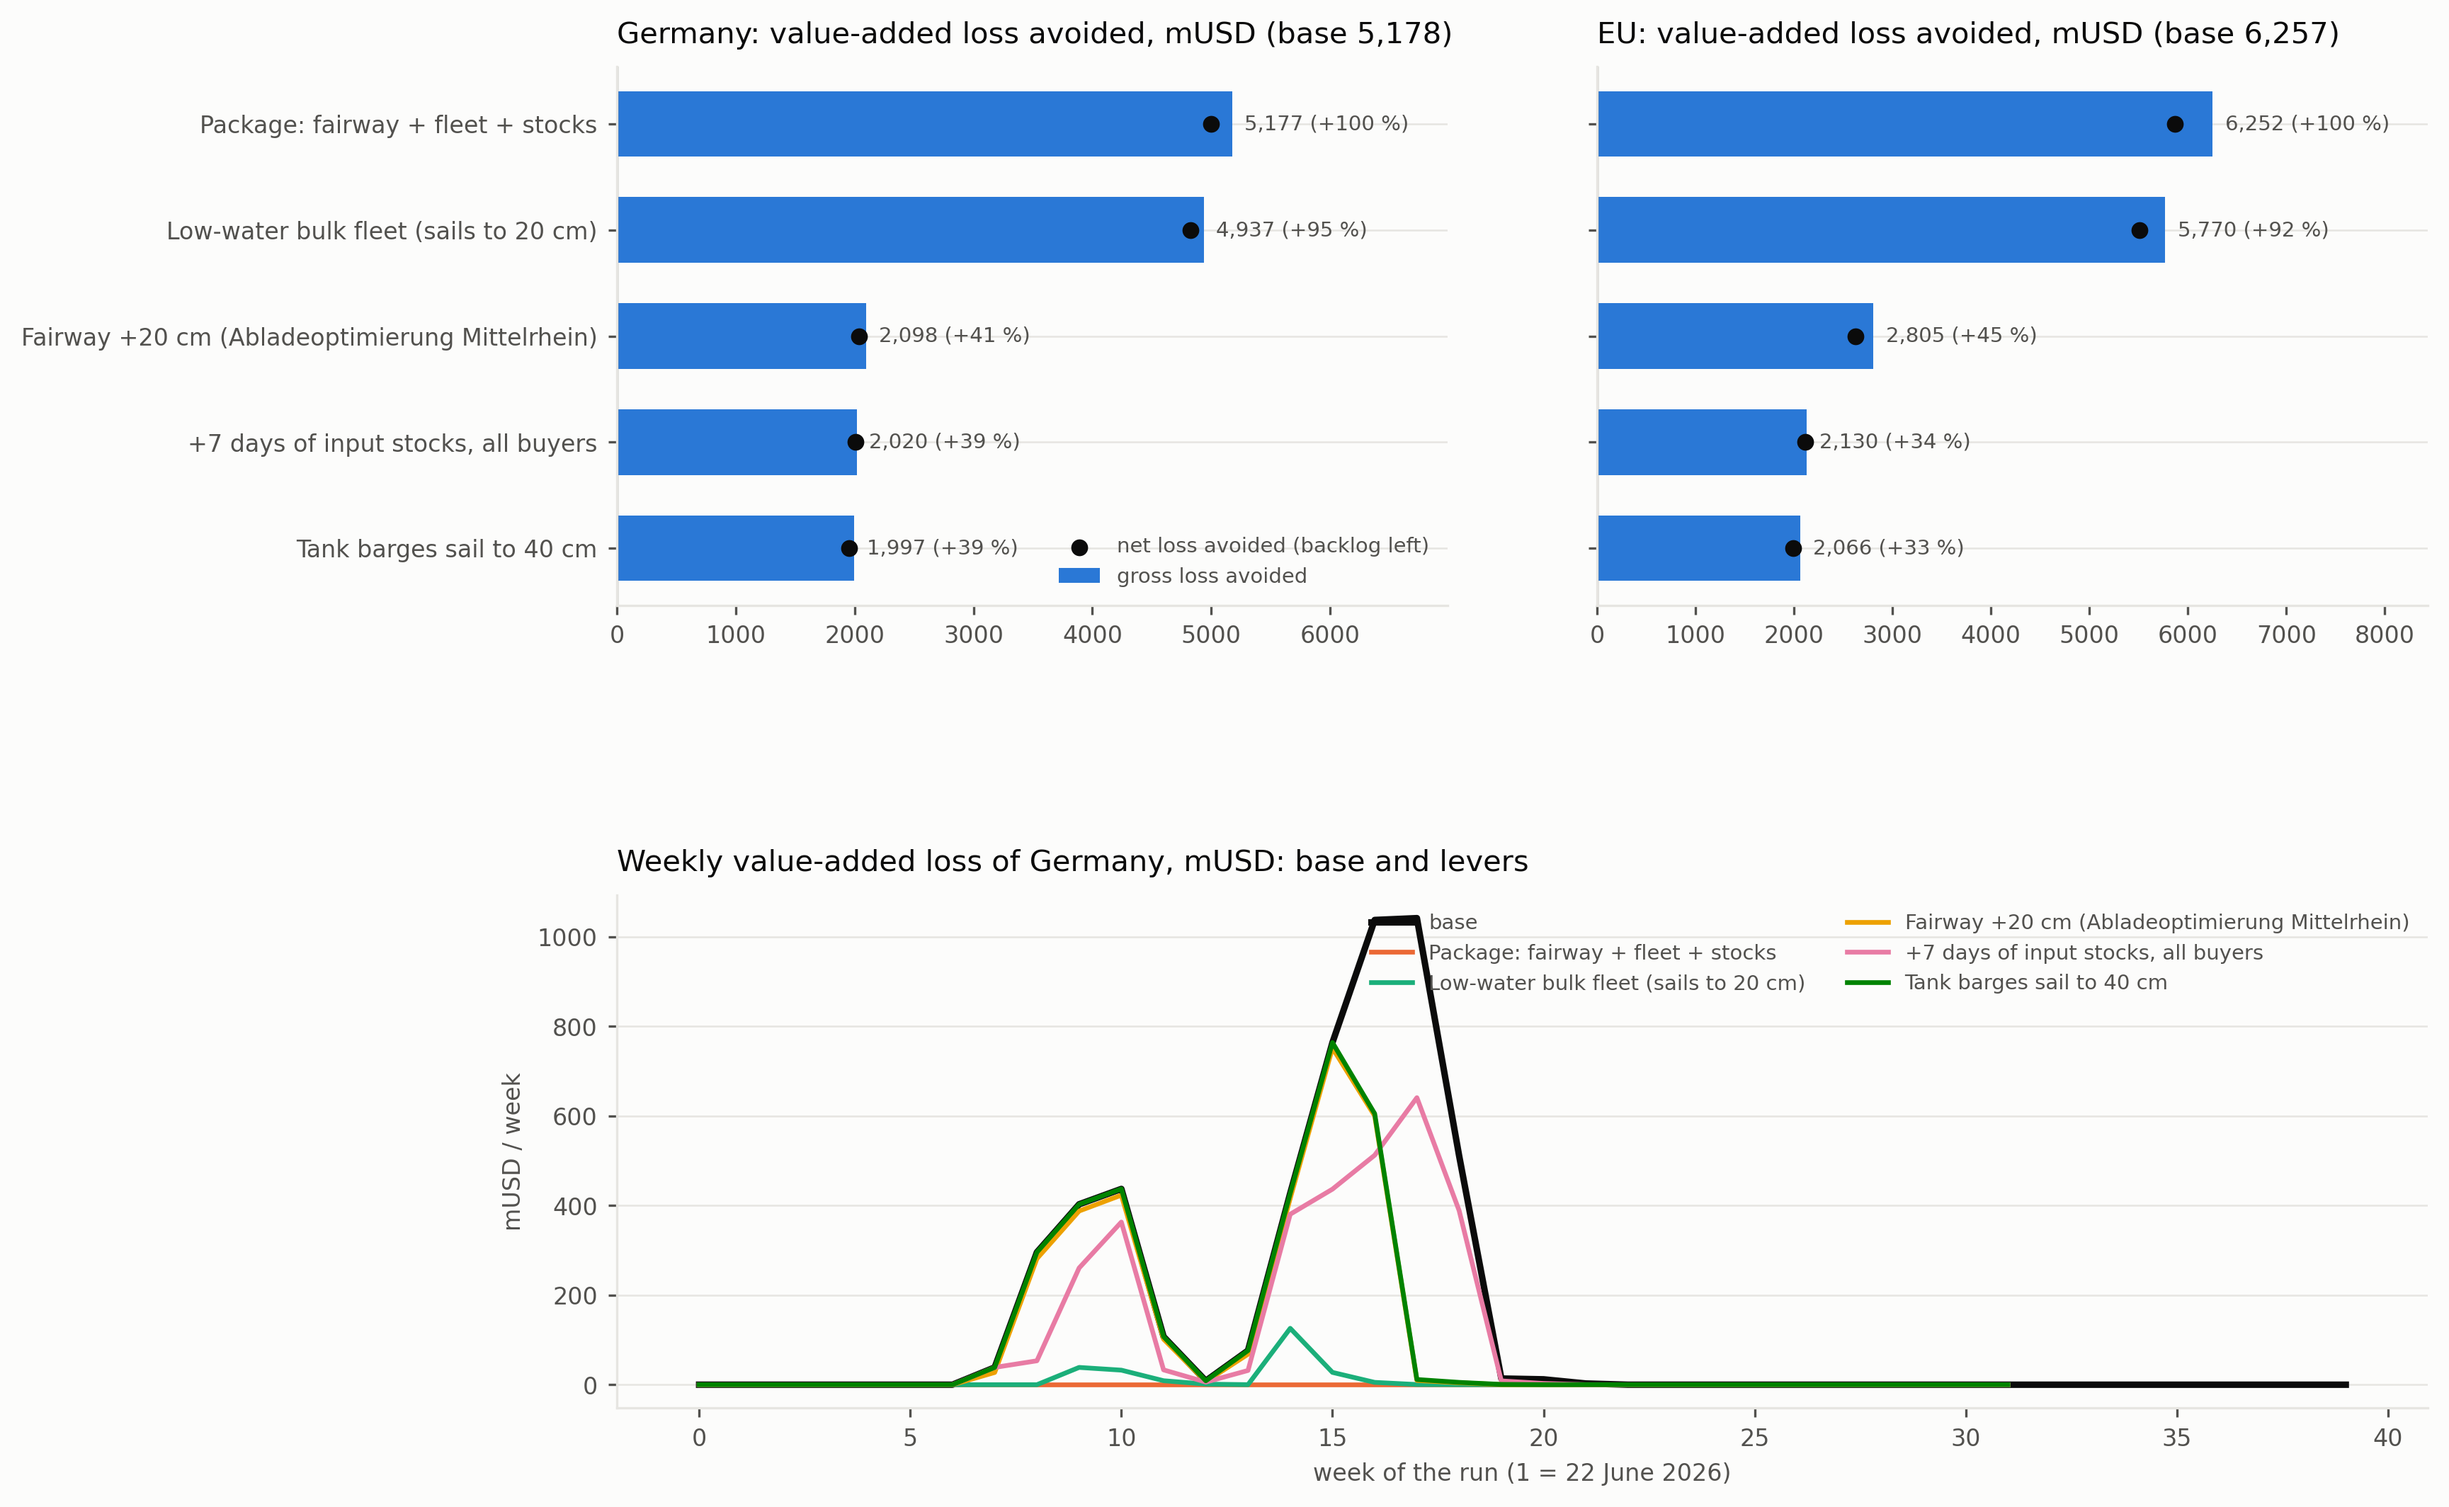
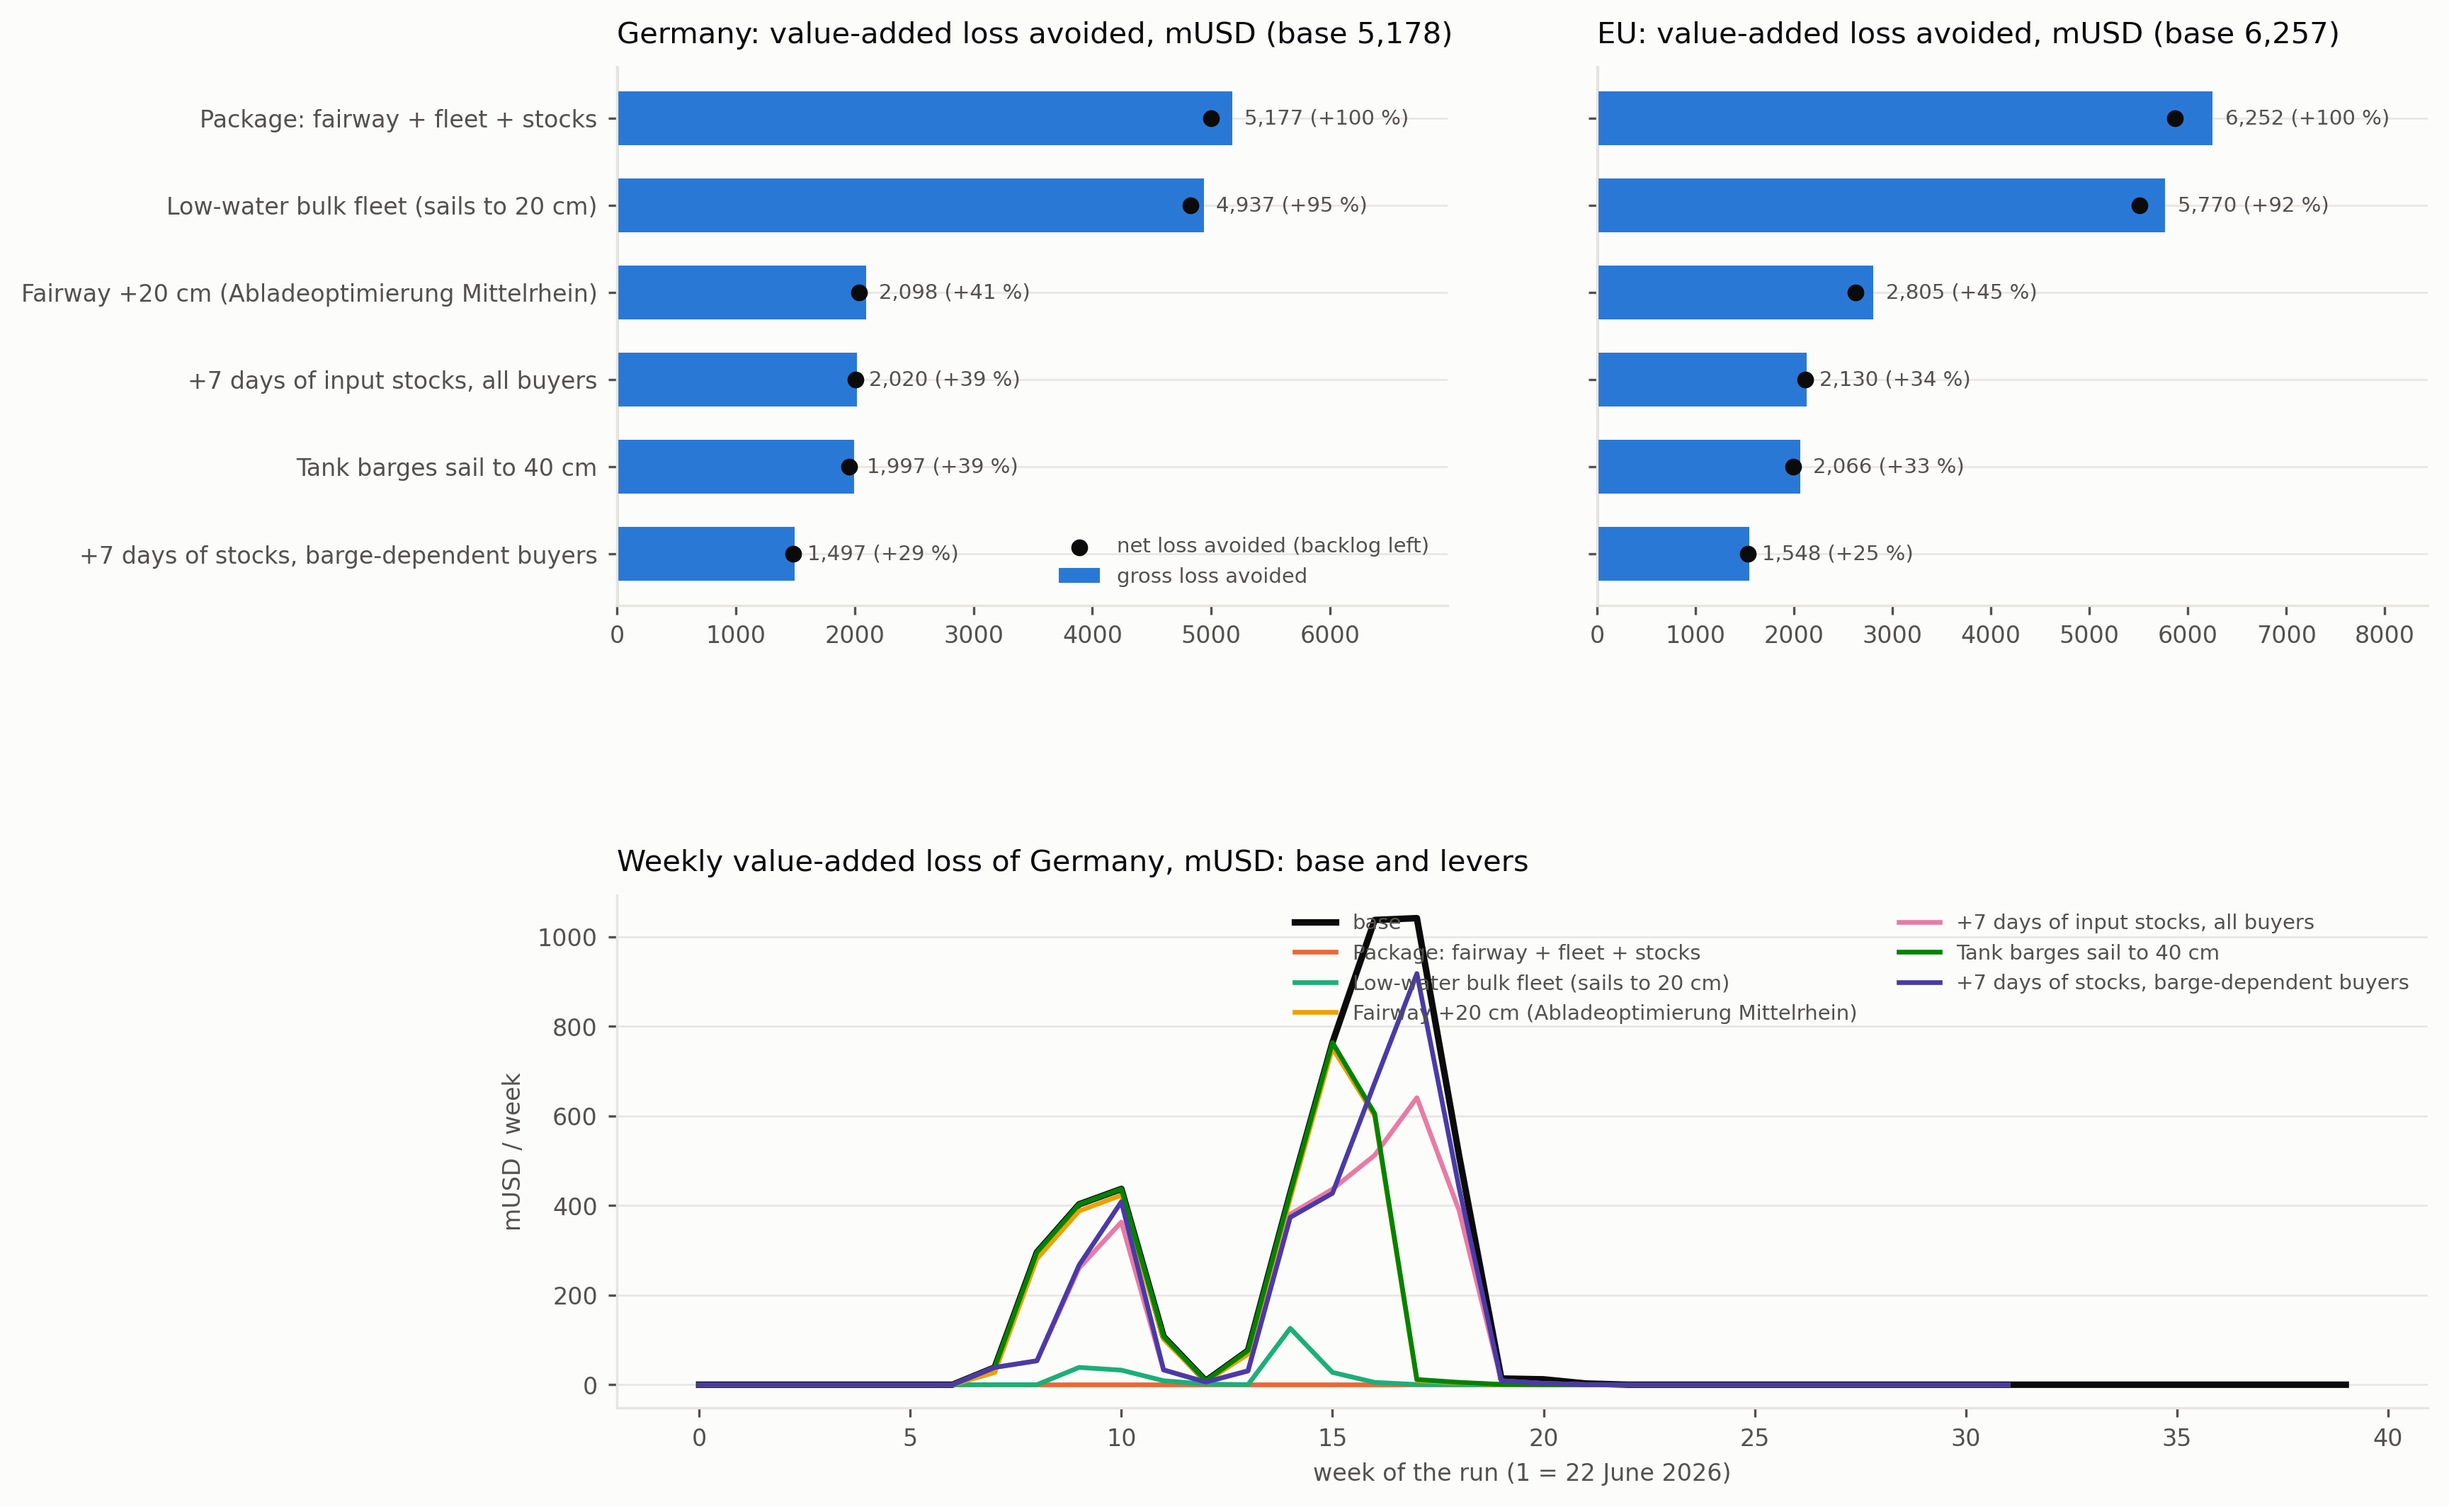
Rhine: targeted-stock lever from the corrected rerun (-29 %, 0.385 % of a quarter) replaces the wrong-scale cluster row; F7/F8 and the lever table redrawn

diff --git a/studies/rhine2026/README.md b/studies/rhine2026/README.md
@@ -393,7 +393,7 @@ hine20266_seed42_base`, then `2018_seed42_base` | **done 05 Sep 03:30**: DEU v
 | **per-cargo line-haul modes: road never a line-haul mode for bulk (15 Sep, user decision on the recommendation; disrupt-sc 8d26c6c)** — laptop pair `lrcheck_base_lhb` (full exports) / `lrcheck_lr0_lhb` (light), `EU/runs/lowerrhine_linehaul_bulk_check.ps1` | `logistics.switching_costs.line_haul_modes: {default: [roads, railways, waterways, maritime], dry_bulk: [railways, waterways, maritime], liquid_bulk: [...]}`: a bulk shipper may not lengthen a road leg by more than the 50 km allowance whatever its length; containers keep the km rule; all-road shippers keep the km rule on their own modes; the same-mode search weights the same access modes | **base done 15 Sep 11:44**: offline classification 2,328 of 2,831 Kaub-crossing bulk pairs give up (928 of 1,243 mUSD of week-6 orders, 75 %; km rule 67 %, old code 81 %), the delivering pairs add no road beyond the allowance; the run reproduces it link by link (week 6: 314 mUSD delivered, 928 not). DEU weeks 7–10 461 / 731 / 1,202 / 1,399 mUSD (km rule 439 / 711 / 1,189 / 1,368; old 606 / 1,054 / 1,671 / 1,924), ten weeks 3,793 = 0.40 % of a quarter (0.39 / 0.55), EU 4,644. **This is the rule of the paper runs**; the 28-run cluster batch is to be relaunched on this commit (`cluster/jobs_20260911.txt`). **Factor-0 twin done 15 Sep 13:22: identical to the bulk-rule base to the decimal in every week and country, blocked bulk value identical in every closure week** |
 | **cluster batch of 15 Sep (the settled rule: penalty-aware search, 50 km allowance, road never line haul for bulk; disrupt-sc 8d26c6c)** — `cluster/jobs_20260911.txt`, 28 runs, archive `rhine_batch_20260915_1904.tgz` | the two baselines with 20 recovery weeks, their no-pooling twins, the ten isolated seed runs, seven levers, seven grid runs, on the cluster's caches of 13 Sep (fingerprints exclude the switching costs) | **Read 15 Sep evening. 2026 (`2026_fc0910_base`): DEU 20,659 mUSD = 2.16 % of a quarter (13 Sep batch 2.74 %), peak 4.15 % of a week in week 18, two waves (461 / 731 / 1,202 / 1,399 / 1,097 in weeks 7–11; 555 / 1,229 / 1,772 / 2,845 / 3,052 / 2,516 / 1,796 in weeks 14–20), tail to week 23; weeks 7–10 equal the laptop pair to the decimal. EU 22.6 bn (28.5), consumption loss 26.4 bn (peak 1.24 %), net DEU 19.1 bn (goods backlog left 6.1, perishable 13.0), delay 386 mUSD; corridor firms below 99 % 3.8 % at the peak; NLD 184, AUT 181, FRA 1,101. Ensemble of eleven draws (seeds 1–10 and 42): DEU 1.85 % of a quarter mean, sd 0.44, range 1.04 (seed 9) – 2.49 (seed 6), peak 2.1–5.0 % of a week always in week 17–18, EU 12.0–24.9 bn, consumption loss 13.3–28.1 bn. 2018 (`2018_baseline`): DEU 12,790 = 1.34 % (1.73), peak 2.81 % of a week in week 22 (10 Dec), losses in weeks 15–27 with the second-round cascade at 1.4–2.1 bn/week in weeks 20–24 (432 / 726 / 731 / 604 / 1,147 / 1,426 / 1,692 / 2,065 / 1,765 / 1,511 / 566 / 125), EU 13.5 bn (17.6), consumption loss 14.9 bn. No pooling: 4.67 % (2026), 2.12 % (2018). Levers vs base (DEU gross avoided): low-water bulk fleet to 20 cm −92 %, +7 days of stocks −65 %, fairway +20 cm −49 %, tank barges to 40 cm −48 %, targeted stocks −28 %, rail at the bulk rate ±0 (−0.2 %; the +13 % of 13 Sep was the penalty-blind artefact), package −100 %. Grid: tanker floor 60 cm = all floors +10 cm 2.70 % (+25 %), all floors −10 cm 1.11 % (= fairway +20 = tank barges 40 within 0.02), stocks ×0.5 5.96 %, ×1.5 0.82 %, Lower Rhine factor 0 = factor 1 = base 2.16 % (the surcharge acts through prices only). READING: 2018 at 1.34 % of a quarter against the ex-post −0.3/−0.4 % and 2026 at 1.85 ± 0.44 % against the ex-ante −0.1 to −0.35 pp: the propagation still overshoots three to four times; the calibration levers that halve it are stocks ×1.5 (0.82 %) and the tanker floor at 40 cm (1.12 %) — decision pending. Figures F4–F8 in `figures/` from these runs; table `additional_data/levers_20260915.csv`; `compare_runs_batch.csv/.txt` in the run folder |
 | **calibration stage 1: the 2018 stock ladder (16 Sep, user decision on the Occam pass)** — `cluster/jobs_20260916_cal2018.txt`, six runs, launcher `--independent` | `--inventory-scale` 1.25 / 1.5 / 1.75 / 2 on the 2018 profile with 20 recovery weeks, ×1.5 with the tanker floor at 40 cm, 2026 at ×2 | **Read 16 Sep: German loss 0.67 / 0.51 / 0.41 / 0.32 % of a quarter (×1: 1.34), peak in week 21 (3 Dec) at every multiplier (1.82 / 1.67 / 1.49 / 1.25 % of a week); ×1.5 + tanker 40 cm 0.22 %. Target 0.3–0.4 % with the peak in late November / early December → PICK ×2 (all inventories, not raw materials only; Bundesbank: raw materials ≈ a third of manufacturing inventories). 2026 cross-check: August wave 0.51 → 0.13 % of a quarter (≈ EUR 1.2 bn, inside IfW's 1–2 bn); 2026 total at ×2 0.54 % (12 recovery weeks), peak 1.42 % of a week in week 17. Stage 2 = `jobs_20260916_paper.txt` at ×2; tables `additional_data/compare_runs_batch_20260916_cal2018.csv/.txt` |
-| **calibration stage 2: the paper runs on the calibrated buffer (×2), 16 Sep** — `cluster/jobs_20260916_paper.txt`, 20 runs, launcher `--independent`; the 2018 calibrated baseline is the ladder run `2018_inv200` | base with 20 recovery weeks, no-pooling twins, ten seeds, five levers, tanker floor 60 | **Read 16 Sep 15:00. 2026 (`2026_cal_base`): DEU 5,178 mUSD = 0.54 % of a quarter, peak 1.42 % of a week in week 17; August wave 0.13 %, September wave 0.41 % (Q3 0.27, Q4 0.27); EU 6.3 bn, consumption loss 5.4 bn, net 5.0 bn, corridor firms below 99 % 2.9 %. Ensemble of eleven draws 0.52 ± 0.14 %, range 0.31–0.76, peak 0.6–1.7 % of a week in weeks 15–17. 2018 (`2018_inv200`): 0.32 %, peak 1.25 % in week 21 (3 Dec), EU 3.5 bn. No pooling 0.86 / 0.45 %. Levers (DEU gross avoided): bulk fleet to 20 cm −95 %, fairway +20 cm −41 %, tank barges to 40 cm −39 %, +7 days of stocks −39 %, package −100 %; targeted stocks rerunning (the cluster run scaled the listed sectors only — helper fixed, KI-36). Band: tanker floor 40 / 50 / 60 cm 0.33 / 0.54 / 0.75 %; stocks ×1 / ×1.5 / ×2 2.16 / 0.82 / 0.54 %. Figures F4–F8 from these runs; tables `additional_data/compare_runs_batch_20260916_paper*.csv/.txt`, `levers_20260916.csv` |
+| **calibration stage 2: the paper runs on the calibrated buffer (×2), 16 Sep** — `cluster/jobs_20260916_paper.txt`, 20 runs, launcher `--independent`; the 2018 calibrated baseline is the ladder run `2018_inv200` | base with 20 recovery weeks, no-pooling twins, ten seeds, five levers, tanker floor 60 | **Read 16 Sep 15:00. 2026 (`2026_cal_base`): DEU 5,178 mUSD = 0.54 % of a quarter, peak 1.42 % of a week in week 17; August wave 0.13 %, September wave 0.41 % (Q3 0.27, Q4 0.27); EU 6.3 bn, consumption loss 5.4 bn, net 5.0 bn, corridor firms below 99 % 2.9 %. Ensemble of eleven draws 0.52 ± 0.14 %, range 0.31–0.76, peak 0.6–1.7 % of a week in weeks 15–17. 2018 (`2018_inv200`): 0.32 %, peak 1.25 % in week 21 (3 Dec), EU 3.5 bn. No pooling 0.86 / 0.45 %. Levers (DEU gross avoided): bulk fleet to 20 cm −95 %, fairway +20 cm −41 %, tank barges to 40 cm −39 %, +7 days of stocks −39 %, package −100 %; targeted stocks −29 % (laptop rerun of 16 Sep 19:39 after the helper fix, KI-36: 0.385 % of a quarter, EU −25 %; the cluster run had scaled the listed sectors only). Band: tanker floor 40 / 50 / 60 cm 0.33 / 0.54 / 0.75 %; stocks ×1 / ×1.5 / ×2 2.16 / 0.82 / 0.54 %. Figures F4–F8 from these runs; tables `additional_data/compare_runs_batch_20260916_paper*.csv/.txt`, `levers_20260916.csv` |
 | give-up rule sensitivity | `--legacy-give-up` (freight-bill rule, threshold 2) → `…_legacy` | later |
 | analysis | `analyze_scenario.py <run>` — Kaub tonnage vs fleet capacity, corridor substitution, corridor firms below baseline vs DIHK, price surcharges, value-added loss vs the macro range | after each run |
 

diff --git a/studies/rhine2026/adaptation_counterfactuals.md b/studies/rhine2026/adaptation_counterfactuals.md
@@ -43,8 +43,9 @@ D lowers the give-up of bulk in closure weeks, E shows complementarity (package 
 `2026_cal_base` 0.54 % of a quarter (peak 1.42 % of a week in week 17; August wave 0.13 %, September wave 0.41 %),
 ensemble 0.52 ± 0.14 % (0.31–0.76), `2018_inv200` 0.32 % (peak week 21). Levers (DEU gross avoided): fleet20 −95 %,
 deep20 −41 %, fleet40 −39 %, stock7 −39 %, package −100 %; the fairway and the tanker floor at 40 cm remain one lever
-in the model (they remove the same tank-barge closure weeks). Targeted stocks: the cluster run is wrong (the inventory
-helper scaled the listed sectors only; fixed, KI-36) and reruns on the laptop 16 Sep afternoon. Band: tanker floor 40 /
+in the model (they remove the same tank-barge closure weeks). Targeted stocks: the cluster run was wrong (the inventory
+helper scaled the listed sectors only; fixed, KI-36); the laptop rerun gives −29 % (0.385 %), three quarters of the
+all-buyer lever. Band: tanker floor 40 /
 50 / 60 cm 0.33 / 0.54 / 0.75 %, stocks ×1 / 1.5 / 2 2.16 / 0.82 / 0.54 %, no pooling 0.86 %. Figures F4–F8 and
 `levers_20260916.csv` come from these runs. The paper numbers are these unless the event-end profile refresh
 (November) moves them; the rail lever is out, the Lower Rhine factor a price parameter, the price give-up threshold
